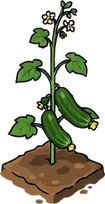
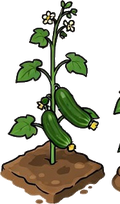
feat(地图等距): 作物换成手绘等距 4 阶段 + 新增番茄/黄瓜作物
- ISO_CROPS 把作物 id 映射到手绘等距 4 阶段图(含自带土块):茄子/辣椒(niu_jiao_jiao)/
  韭菜(jiucai)/香菜/大蒜(suan_tai)/番茄/黄瓜;_lazyImg 按需加载帧
- 种了手绘作物的地块地面改回草地(作物图自带土块),空地块仍是翻土;按进度选 0-3 帧
- data/crops.json 新增 tomato/番茄 + cucumber/黄瓜(合理默认价格/时长/解锁)
- scripts: split_stages 改为「按底部土块带切分」(高作物会越过缝隙,旧的全列扫描会失败)
  → 7 种作物全部正确切成 4 帧;并处理装饰/动物素材(待接)
- service-worker ef-v21 → ef-v22

CDP 验证:番茄/黄瓜作物存在 + 手绘作物帧加载 + 无报错;截图确认地里是手绘等距作物

diff --git a/src/js/mapview-iso.js b/src/js/mapview-iso.js
@@ -29,6 +29,12 @@
     grass: { img: 'tile_grass', cy: 0.42 }, soil: { img: 'tile_soil', cy: 0.40 },
     path: { img: 'tile_path', cy: 0.34 }, water: { img: 'tile_water', cy: 0.40 },
   };
+  // Painted iso 4-stage crop sprites (each frame includes its own soil cube), keyed
+  // by crop id. shanghai_miao keeps its pixel sprite (no cube) — handled separately.
+  const ISO_CROPS = {
+    eggplant: 'crop_eggplant', cilantro: 'crop_cilantro', jiucai: 'crop_chives',
+    niu_jiao_jiao: 'crop_chili', suan_tai: 'crop_garlic', tomato: 'crop_tomato', cucumber: 'crop_cucumber',
+  };
   const BUILDINGS = {
     barn: { img: 'barn', w: 2, h: 2, sc: 2.4, zh: '谷仓·仓库', en: 'Barn', tap: 'warehouse' },
     house: { img: 'house', w: 2, h: 2, sc: 2.6, zh: '小屋·种子店', en: 'Cottage', tap: 'shop' },
@@ -365,6 +371,14 @@
       if (!url) { this._cropImg[id] = true; return null; }
       this._cropImg[id] = false; const im = new Image(); im.onload = () => { this._cropImg[id] = im; if (this._on) this.render(); }; im.onerror = () => { this._cropImg[id] = true; }; im.src = url; return null;
     },
+    // Lazy-load any map asset by file stem (e.g. 'crop_eggplant_2', 'animal_cat').
+    _lazyImg(name) {
+      const k = 'L_' + name, c = this._img[k];
+      if (c instanceof Image) return c; if (c === 'loading') return null;
+      this._img[k] = 'loading';
+      const im = new Image(); im.onload = () => { this._img[k] = im; if (this._on) this.render(); }; im.onerror = () => { this._img[k] = null; }; im.src = ASSET_DIR + name + '.png';
+      return null;
+    },
     _diamond(x, y, tw, th) { const c = this._ctx; c.beginPath(); c.moveTo(x, y - th / 2); c.lineTo(x + tw / 2, y); c.lineTo(x, y + th / 2); c.lineTo(x - tw / 2, y); c.closePath(); },
     // Draw a painted cube ground tile centered on cell c (diamond width = TW,
     // ~2% overlap to hide seams), or a flat-diamond fallback while it loads.
@@ -399,7 +413,12 @@
           if (c.x + tw < 0 || c.x - tw > W || c.y + th * 4 < 0 || c.y - th * 2 > H) continue;
           const k = gx + ',' + gy;
           let key = 'grass';
-          if (plotCells[k]) { const pl = Farm.state.data.plots[this._cellToPlot[k]]; if (pl && pl.unlocked) key = 'soil'; }
+          if (plotCells[k]) {
+            const pl = Farm.state.data.plots[this._cellToPlot[k]];
+            // empty plot or pixel bok choy → tilled soil tile; painted-crop plots
+            // stay grass (the crop sprite brings its own soil cube).
+            if (pl && pl.unlocked && !(pl.crop && ISO_CROPS[pl.crop])) key = 'soil';
+          }
           if (terrain[k] === 'water') key = 'water'; else if (terrain[k] === 'path') key = 'path';
           this._tileImg(key, c);
         }
@@ -453,8 +472,11 @@
       const by = c.y + th * 0.2;   // sprite stands on the diamond
       if (mature) { const t = Date.now() / 1000, ph = Math.sin(t * 2 + gx + gy); ctx.beginPath(); ctx.arc(c.x, c.y - th * 0.1, tw * (0.34 + ph * 0.02), 0, Math.PI * 2); ctx.fillStyle = 'rgba(255,214,79,' + (0.3 + ph * 0.08) + ')'; ctx.fill(); }
       ctx.textAlign = 'center'; ctx.textBaseline = 'alphabetic';
-      if (plot.crop === 'shanghai_miao') {
-        const fr = p >= 1 ? 3 : p >= 0.6 ? 2 : p >= 0.25 ? 1 : 0;
+      const fr = p >= 1 ? 3 : p >= 0.6 ? 2 : p >= 0.25 ? 1 : 0;
+      if (ISO_CROPS[plot.crop]) {   // painted iso 4-stage (sprite includes soil cube)
+        const im = this._lazyImg(ISO_CROPS[plot.crop] + '_' + fr);
+        if (!this._blit(im, c.x, c.y + th * 0.62, tw * 1.0, th * 3.2)) { const def = Farm.crops.get(plot.crop); ctx.font = (th * 1.1) + 'px sans-serif'; ctx.fillText((def && def.icon) || '🌿', c.x, by); }
+      } else if (plot.crop === 'shanghai_miao') {
         if (!this._blit(this._img['crop' + fr], c.x, by, tw * 0.8, th * (1.6 + fr * 0.9))) { ctx.font = (th) + 'px sans-serif'; ctx.fillText(mature ? '🥬' : '🌿', c.x, by); }
       } else if (mature) {
         const im = this._cropSprite(plot.crop);

diff --git a/service-worker.js b/service-worker.js
@@ -59,7 +59,7 @@ self.addEventListener('notificationclick', (event) => {
   );
 });
 
-const CACHE_VERSION = 'ef-v21';
+const CACHE_VERSION = 'ef-v22';
 const CACHE = 'eastern-farm-' + CACHE_VERSION;
 const PRECACHE = [
   '/src/index.html',

diff --git a/scripts/process_map_assets.py b/scripts/process_map_assets.py
@@ -49,6 +49,23 @@ SRC = {
     "p_tomato": os.path.join(UP, "468bf3ab-IMG_1682.jpeg"),   # iso tomato 4-stage
     "p_cucumber": os.path.join(UP, "41b91da1-IMG_1683.jpeg"), # iso cucumber 4-stage
     "p_tree": os.path.join(UP, "6e5c8b6f-IMG_1684.jpeg"),
+    # crop 4-stage strips (iso), batch 2:
+    "c_chili":    os.path.join(UP, "b3df3544-IMG_1685.jpeg"),
+    "c_eggplant": os.path.join(UP, "338d846b-IMG_1686.jpeg"),
+    "c_chives":   os.path.join(UP, "94cf3734-IMG_1687.jpeg"),
+    "c_cilantro": os.path.join(UP, "a254c5fa-IMG_1688.jpeg"),
+    "c_garlic":   os.path.join(UP, "acc3987d-IMG_1689.jpeg"),
+    # decorations (iso):
+    "d_bush":   os.path.join(UP, "16c4f234-IMG_1690.jpeg"),
+    "d_lantern":os.path.join(UP, "dfc5919d-IMG_1691.jpeg"),
+    "d_fence":  os.path.join(UP, "1dc72411-IMG_1692.jpeg"),
+    "d_wheel":  os.path.join(UP, "433a9873-IMG_1693.jpeg"),
+    "d_bridge": os.path.join(UP, "43a574e7-IMG_1694.jpeg"),
+    # animals (iso, on grass diamond):
+    "a_chicken":os.path.join(UP, "a406f4ab-IMG_1695.jpeg"),
+    "a_cat":    os.path.join(UP, "de98fca7-IMG_1696.jpeg"),
+    "a_rabbit": os.path.join(UP, "39ef730a-IMG_1697.jpeg"),
+    "a_dog":    os.path.join(UP, "a04783c4-IMG_1698.jpeg"),
 }
 
 
@@ -130,34 +147,46 @@ def scale(img, factor):
 
 
 def split_stages(img, n=4):
-    """Split a horizontal sprite strip into n sprites by transparent gutters.
-    Returns list of cropped sprite images, left-to-right."""
+    """Split a horizontal crop-growth strip into n stages, left-to-right.
+
+    Tall plants overhang the gaps between stages, so a full-height column scan
+    fails. Instead detect the SOIL CUBES in the bottom band (which never overhang
+    each other), then slice full-height at the midpoints between cube clusters."""
     w, h = img.size
     px = img.load()
-    # column has content if any pixel alpha>16
-    col_has = [False] * w
+    band_top = int(h * 0.62)          # bottom ~38% = where the soil cubes sit
+    col = [0] * w
     for x in range(w):
-        for y in range(h):
+        c = 0
+        for y in range(band_top, h):
             if px[x, y][3] > 16:
-                col_has[x] = True
-                break
-    # find runs of content columns
+                c += 1
+        col[x] = c
+    thr = max(col) * 0.18 if max(col) else 1
     runs = []
     x = 0
     while x < w:
-        if col_has[x]:
+        if col[x] >= thr:
             s = x
-            while x < w and col_has[x]:
+            while x < w and col[x] >= thr:
                 x += 1
             runs.append((s, x))
         else:
             x += 1
-    # merge tiny gaps: keep largest n runs by width
+    # keep the n widest cube-runs, ordered left→right
     runs.sort(key=lambda r: r[1] - r[0], reverse=True)
     runs = sorted(runs[:n], key=lambda r: r[0])
+    if len(runs) < 2:                 # detection failed → fall back to equal slices
+        runs = [(int(i * w / n), int((i + 1) * w / n)) for i in range(n)]
+    # split boundaries at midpoints between adjacent cube centers
+    centers = [(s + e) / 2 for (s, e) in runs]
+    bounds = [0]
+    for i in range(len(centers) - 1):
+        bounds.append(int((centers[i] + centers[i + 1]) / 2))
+    bounds.append(w)
     sprites = []
-    for (s, e) in runs:
-        sub = img.crop((s, 0, e, h))
+    for i in range(len(centers)):
+        sub = img.crop((bounds[i], 0, bounds[i + 1], h))
         sprites.append(autocrop(sub))
     return sprites
 
@@ -243,6 +272,26 @@ def main():
         for i, s in enumerate(st):
             scale(s, f).save(os.path.join(OUT, f"{out}_{i}.png"), optimize=True)
         log.append(f"{out} stages={len(st)} f={f:.3f}")
+
+    # crop 4-stage strips (batch 2) -> per-stage PNGs
+    for key, out in [("c_chili", "crop_chili"), ("c_eggplant", "crop_eggplant"), ("c_chives", "crop_chives"),
+                     ("c_cilantro", "crop_cilantro"), ("c_garlic", "crop_garlic")]:
+        st = split_stages(flood_alpha(Image.open(SRC[key]), "checker"), 4)
+        tall = max(s.height for s in st) or 1
+        f = min(1.0, 300 / tall)
+        for i, s in enumerate(st):
+            scale(s, f).save(os.path.join(OUT, f"{out}_{i}.png"), optimize=True)
+        log.append(f"{out} stages={len(st)} f={f:.3f}")
+
+    # decorations
+    for key, out, bg, w in [("d_bush", "deco_bush.png", "checker", 200), ("d_lantern", "deco_lantern.png", "sky", 200),
+                            ("d_fence", "deco_fence.png", "checker", 300), ("d_wheel", "deco_wheel.png", "sky", 280),
+                            ("d_bridge", "deco_bridge.png", "checker", 280)]:
+        save_iso(key, out, bg, w)
+    # animals (cream bg → 'white' catches it)
+    for key, out in [("a_chicken", "animal_chicken.png"), ("a_cat", "animal_cat.png"),
+                     ("a_rabbit", "animal_rabbit.png"), ("a_dog", "animal_dog.png")]:
+        save_iso(key, out, "white", 220)
 
     # --- grass color sample (no file saved; the engine uses the hex) ---
     grass = Image.open(SRC["grass"]).convert("RGB")
